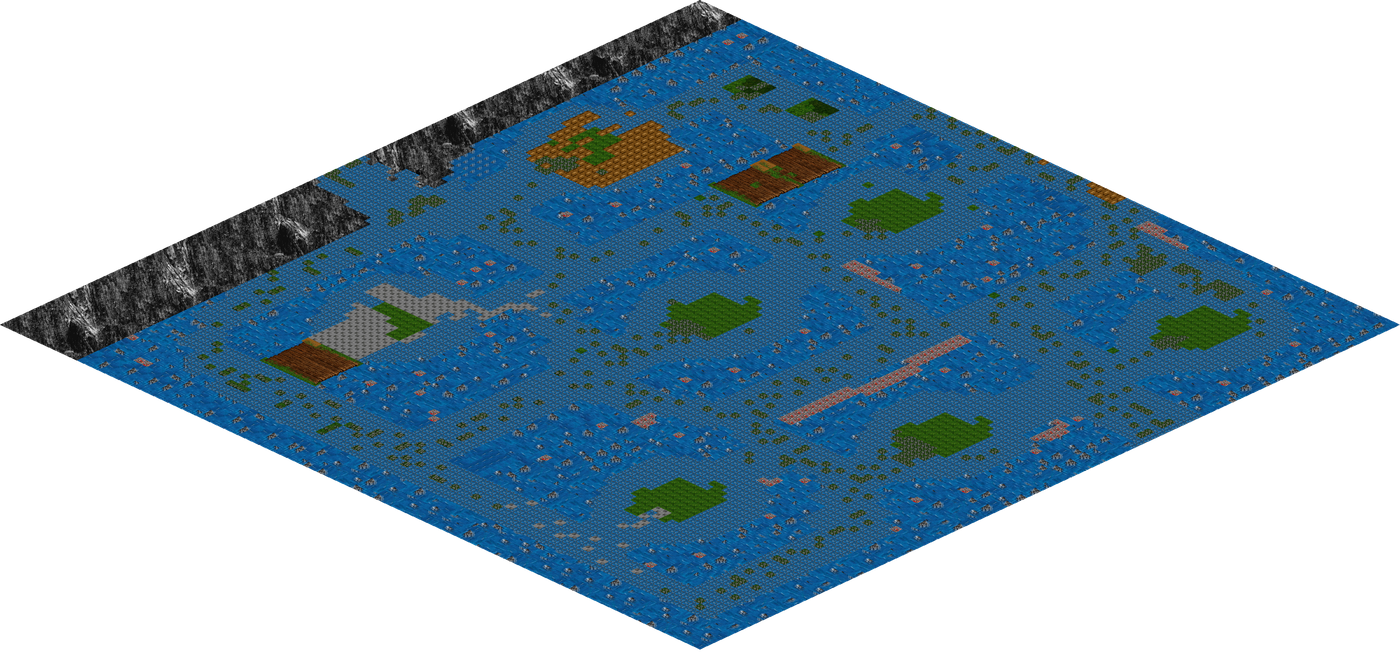
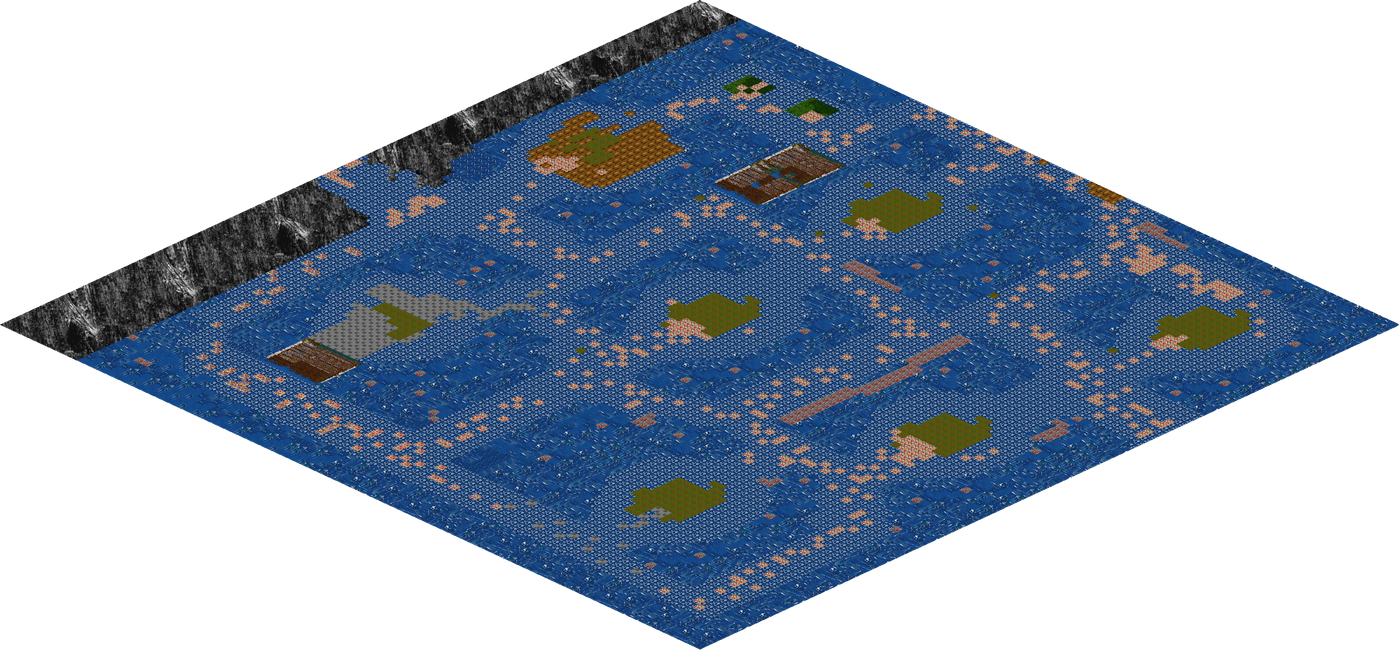
fix(dat-extract): 아카이브가 제 색표를 쓰게 한다 — 5.99 지도가 제 색으로 나온다
타일 색표를 mpt 로 시작하는 것만 읽고 있었다. 7.18 은 mpt0000.pal +
mpt0018.tbl 이지만 5.99 는 mps0000.pal + mpspal.tbl 이다. 그런데 5.99
아카이브에는 mpt 팔레트도 80개 들어 있어서, 잘못 고르는 것이 오류가 아니라
"틀린 색의 그림"으로 조용히 나왔다. 7.18 아카이브로 그려도 픽셀 단위로 같은
그림이 나온 것이 그 증거다 - 어느 쪽이든 같은 경로를 탔다.

어느 쪽인지는 표가 정한다. 타일마다 어느 팔레트를 쓸지 적어 둔 파일이 표이므로,
그 표와 같은 이름을 쓰는 팔레트가 짝이다. mpspal.tbl 이 있으면 mps 를 쓴다.

  전: 팔레트 80개 . 표 495개   (mpt0018.tbl 은 9바이트다)
  후: 팔레트 23개 . 표 254개   (mpspal.tbl 은 타일 2~19244 를 팔레트 0~24 에 맵)

밀레스마을이 마을처럼 보인다 - 풀밭, 흙길, 강과 다리, 건물이 놓인 자리.
마인마을이 파랬던 것은 색이 틀려서가 아니라 원래 물이 많은 갯마을이어서였다.

지도 그림을 네 곳으로 늘렸다: 마인마을, 밀레스마을, 아벨마을, 노비스마을.
밀레스는 워프 칸이 36개고 핀이 마을 한복판(상점 입구)과 가장자리(마을 밖
출구)에 모인다. 제자리다.

아직 바닥만 그린다. 건물.상점 같은 오브젝트는 맵 칸의 벽 두 칸과 seo.dat 안
맵별 .hea 파일(000666.hea = 마인마을, 638KB)에 들어 있고 그걸 읽는 코드가
저장소 어디에도 없다. 화면에 그렇게 적어 두었다.

Claude-Session: https://claude.ai/code/session_01TuV2TqB1suNF3CXSbDnC7b

Changed region(s): [[0.0614, 0.0305, 1.0, 1.0]]

diff --git a/docs/map-images-data.js b/docs/map-images-data.js
@@ -1,1 +1,1 @@
-window.MAP_IMAGES = {"마인마을": {"그림": "map-images/마인마을.png", "폭": 1400, "높이": 656, "칸": [100, 100], "배율": 4, "표시": [{"칸": [15, 33], "x": 574.0, "y": 159.2, "도착": ["마인시약상점"]}, {"칸": [43, 0], "x": 1001.0, "y": 143.0, "도착": ["죽음의마을입구5"]}, {"칸": [44, 0], "x": 1008.0, "y": 146.2, "도착": ["죽음의마을입구5"]}, {"칸": [45, 0], "x": 1015.0, "y": 149.5, "도착": ["죽음의마을입구5"]}, {"칸": [46, 0], "x": 1022.0, "y": 152.8, "도착": ["죽음의마을입구5"]}, {"칸": [46, 21], "x": 875.0, "y": 221.0, "도착": ["마인제조상점"]}, {"칸": [47, 0], "x": 1029.0, "y": 156.0, "도착": ["죽음의마을입구5"]}, {"칸": [48, 0], "x": 1036.0, "y": 159.2, "도착": ["죽음의마을입구5"]}, {"칸": [49, 50], "x": 693.0, "y": 325.0, "도착": ["마인은행"]}, {"칸": [84, 52], "x": 924.0, "y": 445.2, "도착": ["마인여관"]}, {"칸": [99, 29], "x": 1190.0, "y": 419.2, "도착": ["마이소시아"]}, {"칸": [99, 30], "x": 1183.0, "y": 422.5, "도착": ["마이소시아"]}, {"칸": [99, 31], "x": 1176.0, "y": 425.8, "도착": ["마이소시아"]}, {"칸": [99, 32], "x": 1169.0, "y": 429.0, "도착": ["마이소시아"]}, {"칸": [99, 33], "x": 1162.0, "y": 432.2, "도착": ["마이소시아"]}, {"칸": [99, 34], "x": 1155.0, "y": 435.5, "도착": ["마이소시아"]}, {"칸": [99, 35], "x": 1148.0, "y": 438.8, "도착": ["마이소시아"]}, {"칸": [99, 36], "x": 1141.0, "y": 442.0, "도착": ["마이소시아"]}, {"칸": [99, 37], "x": 1134.0, "y": 445.2, "도착": ["마이소시아"]}]}};
+window.MAP_IMAGES = {"마인마을": {"그림": "map-images/마인마을.png", "폭": 1400, "높이": 656, "칸": [100, 100], "배율": 4, "표시": [{"칸": [15, 33], "x": 574.0, "y": 159.2, "도착": ["마인시약상점"]}, {"칸": [43, 0], "x": 1001.0, "y": 143.0, "도착": ["죽음의마을입구5"]}, {"칸": [44, 0], "x": 1008.0, "y": 146.2, "도착": ["죽음의마을입구5"]}, {"칸": [45, 0], "x": 1015.0, "y": 149.5, "도착": ["죽음의마을입구5"]}, {"칸": [46, 0], "x": 1022.0, "y": 152.8, "도착": ["죽음의마을입구5"]}, {"칸": [46, 21], "x": 875.0, "y": 221.0, "도착": ["마인제조상점"]}, {"칸": [47, 0], "x": 1029.0, "y": 156.0, "도착": ["죽음의마을입구5"]}, {"칸": [48, 0], "x": 1036.0, "y": 159.2, "도착": ["죽음의마을입구5"]}, {"칸": [49, 50], "x": 693.0, "y": 325.0, "도착": ["마인은행"]}, {"칸": [84, 52], "x": 924.0, "y": 445.2, "도착": ["마인여관"]}, {"칸": [99, 29], "x": 1190.0, "y": 419.2, "도착": ["마이소시아"]}, {"칸": [99, 30], "x": 1183.0, "y": 422.5, "도착": ["마이소시아"]}, {"칸": [99, 31], "x": 1176.0, "y": 425.8, "도착": ["마이소시아"]}, {"칸": [99, 32], "x": 1169.0, "y": 429.0, "도착": ["마이소시아"]}, {"칸": [99, 33], "x": 1162.0, "y": 432.2, "도착": ["마이소시아"]}, {"칸": [99, 34], "x": 1155.0, "y": 435.5, "도착": ["마이소시아"]}, {"칸": [99, 35], "x": 1148.0, "y": 438.8, "도착": ["마이소시아"]}, {"칸": [99, 36], "x": 1141.0, "y": 442.0, "도착": ["마이소시아"]}, {"칸": [99, 37], "x": 1134.0, "y": 445.2, "도착": ["마이소시아"]}]}, "밀레스마을": {"그림": "map-images/밀레스마을.png", "폭": 1400, "높이": 656, "칸": [100, 100], "배율": 4, "표시": [{"칸": [12, 69], "x": 301.0, "y": 266.5, "도착": ["밀레스무기점"]}, {"칸": [13, 69], "x": 308.0, "y": 269.8, "도착": ["밀레스무기점"]}, {"칸": [18, 61], "x": 399.0, "y": 260.0, "도착": ["밀레스방어구점"]}, {"칸": [18, 62], "x": 392.0, "y": 263.2, "도착": ["밀레스방어구점"]}, {"칸": [18, 84], "x": 238.0, "y": 334.8, "도착": ["밀레스훈련소"]}, {"칸": [20, 22], "x": 686.0, "y": 139.8, "도착": ["밀레스특수스킬의집"]}, {"칸": [25, 15], "x": 770.0, "y": 133.2, "도착": ["밀레스시약상점"]}, {"칸": [26, 15], "x": 777.0, "y": 136.5, "도착": ["밀레스시약상점"]}, {"칸": [27, 43], "x": 588.0, "y": 230.8, "도착": ["밀레스여관"]}, {"칸": [28, 43], "x": 595.0, "y": 234.0, "도착": ["밀레스여관"]}, {"칸": [30, 82], "x": 336.0, "y": 367.2, "도착": ["밀레스우체국"]}, {"칸": [31, 82], "x": 343.0, "y": 370.5, "도착": ["밀레스우체국"]}, {"칸": [33, 37], "x": 672.0, "y": 230.8, "도착": ["밀레스여관"]}, {"칸": [33, 38], "x": 665.0, "y": 234.0, "도착": ["밀레스여관"]}, {"칸": [40, 75], "x": 455.0, "y": 377.0, "도착": ["밀레스교회"]}, {"칸": [42, 58], "x": 588.0, "y": 328.2, "도착": ["밀레스리콜상점"]}, {"칸": [43, 58], "x": 595.0, "y": 331.5, "도착": ["밀레스리콜상점"]}, {"칸": [52, 0], "x": 1064.0, "y": 172.2, "도착": ["동밀레스마을"]}, {"칸": [53, 0], "x": 1071.0, "y": 175.5, "도착": ["동밀레스마을"]}, {"칸": [54, 0], "x": 1078.0, "y": 178.8, "도착": ["동밀레스마을"]}, {"칸": [54, 70], "x": 588.0, "y": 406.2, "도착": ["밀레스은행"]}, {"칸": [55, 0], "x": 1085.0, "y": 182.0, "도착": ["동밀레스마을"]}, {"칸": [55, 70], "x": 595.0, "y": 409.5, "도착": ["밀레스은행"]}, {"칸": [56, 0], "x": 1092.0, "y": 185.2, "도착": ["동밀레스마을"]}, {"칸": [57, 0], "x": 1099.0, "y": 188.5, "도착": ["동밀레스마을"]}, {"칸": [62, 61], "x": 707.0, "y": 403.0, "도착": ["밀레스음식점"]}, {"칸": [63, 61], "x": 714.0, "y": 406.2, "도착": ["밀레스음식점"]}, {"칸": [70, 54], "x": 812.0, "y": 406.2, "도착": ["밀레스주점"]}, {"칸": [70, 55], "x": 805.0, "y": 409.5, "도착": ["밀레스주점"]}, {"칸": [92, 11], "x": 1267.0, "y": 338.0, "도착": ["밀레스신전"]}, {"칸": [92, 12], "x": 1260.0, "y": 341.2, "도착": ["밀레스신전"]}, {"칸": [92, 13], "x": 1253.0, "y": 344.5, "도착": ["밀레스신전"]}, {"칸": [99, 26], "x": 1211.0, "y": 409.5, "도착": ["마이소시아"]}, {"칸": [99, 27], "x": 1204.0, "y": 412.8, "도착": ["마이소시아"]}, {"칸": [99, 28], "x": 1197.0, "y": 416.0, "도착": ["마이소시아"]}, {"칸": [99, 29], "x": 1190.0, "y": 419.2, "도착": ["마이소시아"]}]}, "아벨마을": {"그림": "map-images/아벨마을.png", "폭": 1036, "높이": 487, "칸": [70, 78], "배율": 4, "표시": [{"칸": [0, 22], "x": 392.0, "y": 74.8, "도착": ["서아벨마을"]}, {"칸": [0, 23], "x": 385.0, "y": 78.0, "도착": ["서아벨마을"]}, {"칸": [0, 24], "x": 378.0, "y": 81.2, "도착": ["서아벨마을"]}, {"칸": [0, 25], "x": 371.0, "y": 84.5, "도착": ["서아벨마을"]}, {"칸": [0, 26], "x": 364.0, "y": 87.8, "도착": ["서아벨마을"]}, {"칸": [7, 51], "x": 238.0, "y": 191.8, "도착": ["아벨음식점"]}, {"칸": [12, 45], "x": 315.0, "y": 188.5, "도착": ["아벨주점"]}, {"칸": [14, 8], "x": 588.0, "y": 74.8, "도착": ["아벨은행"]}, {"칸": [14, 66], "x": 182.0, "y": 263.2, "도착": ["블팜함선입장"]}, {"칸": [15, 66], "x": 189.0, "y": 266.5, "도착": ["블팜함선입장"]}, {"칸": [24, 8], "x": 658.0, "y": 107.2, "도착": ["아벨특수스킬의집"]}, {"칸": [26, 46], "x": 406.0, "y": 237.2, "도착": ["아벨전투기술사범"]}, {"칸": [28, 0], "x": 742.0, "y": 94.2, "도착": ["동아벨마을"]}, {"칸": [29, 0], "x": 749.0, "y": 97.5, "도착": ["동아벨마을"]}, {"칸": [30, 0], "x": 756.0, "y": 100.8, "도착": ["동아벨마을"]}, {"칸": [44, 11], "x": 777.0, "y": 182.0, "도착": ["아벨퀘스트상점"]}, {"칸": [44, 50], "x": 504.0, "y": 308.8, "도착": ["아벨기술사범의집"]}, {"칸": [44, 67], "x": 385.0, "y": 364.0, "도착": ["아벨해안대기실"]}, {"칸": [45, 67], "x": 392.0, "y": 367.2, "도착": ["아벨해안대기실"]}, {"칸": [55, 18], "x": 805.0, "y": 240.5, "도착": ["아벨무기점"]}, {"칸": [59, 39], "x": 686.0, "y": 321.8, "도착": ["아벨여관"]}, {"칸": [60, 11], "x": 889.0, "y": 234.0, "도착": ["아벨방어구점"]}, {"칸": [60, 12], "x": 882.0, "y": 237.2, "도착": ["아벨방어구점"]}, {"칸": [69, 22], "x": 875.0, "y": 299.0, "도착": ["마이소시아"]}, {"칸": [69, 23], "x": 868.0, "y": 302.2, "도착": ["마이소시아"]}, {"칸": [69, 24], "x": 861.0, "y": 305.5, "도착": ["마이소시아"]}, {"칸": [69, 25], "x": 854.0, "y": 308.8, "도착": ["마이소시아"]}]}, "노비스마을": {"그림": "map-images/노비스마을.png", "폭": 980, "높이": 461, "칸": [70, 70], "배율": 4, "표시": [{"칸": [28, 26], "x": 504.0, "y": 178.8, "도착": ["노비스민가1"]}, {"칸": [29, 49], "x": 350.0, "y": 256.8, "도착": ["노비스마을식당"]}, {"칸": [29, 69], "x": 210.0, "y": 321.8, "도착": ["노비스평원B"]}, {"칸": [30, 69], "x": 217.0, "y": 325.0, "도착": ["노비스평원B"]}, {"칸": [31, 25], "x": 532.0, "y": 185.2, "도착": ["노비스민가1"]}, {"칸": [31, 69], "x": 224.0, "y": 328.2, "도착": ["노비스평원B"]}, {"칸": [32, 42], "x": 420.0, "y": 243.8, "도착": ["노비스주점"]}, {"칸": [32, 69], "x": 231.0, "y": 331.5, "도착": ["노비스평원B"]}, {"칸": [33, 69], "x": 238.0, "y": 334.8, "도착": ["노비스평원B"]}, {"칸": [44, 25], "x": 623.0, "y": 227.5, "도착": ["노비스잡화상점"]}, {"칸": [48, 51], "x": 469.0, "y": 325.0, "도착": ["노비스민가2"]}, {"칸": [50, 25], "x": 665.0, "y": 247.0, "도착": ["노비스무기방어구상점"]}, {"칸": [63, 49], "x": 588.0, "y": 367.2, "도착": ["마이소시아"]}, {"칸": [69, 26], "x": 791.0, "y": 312.0, "도착": ["노비스평원A"]}, {"칸": [69, 27], "x": 784.0, "y": 315.2, "도착": ["노비스평원A"]}, {"칸": [69, 28], "x": 777.0, "y": 318.5, "도착": ["노비스평원A"]}, {"칸": [69, 29], "x": 770.0, "y": 321.8, "도착": ["노비스평원A"]}, {"칸": [69, 30], "x": 763.0, "y": 325.0, "도착": ["노비스평원A"]}]}};

diff --git a/docs/world-map.js b/docs/world-map.js
@@ -101,7 +101,9 @@
       '<div class="map-canvas"><img src="' + m["그림"] + '" alt="' + hit + ' 지형" loading="lazy">' +
       pins + "</div>" +
       '<p class="map-hint">점이 워프가 있는 칸이다. 올려 두면 어디로 가는지 나온다. ' +
-      "<strong>색은 아직 틀렸다</strong> — dat-extract 가 5.99 의 색표(mpspal.tbl)를 안 읽는다. 지형 모양은 맞다.</p>" +
+      "<strong>바닥만 그린 그림이다</strong> — 건물·상점 같은 오브젝트는 맵의 벽 두 칸과 " +
+      "seo.dat 안 맵별 <code>000666.hea</code> 파일에 들어 있고, 그걸 읽는 코드가 아직 없다. " +
+      "흰 사각형이 건물이 놓인 자리다.</p>" +
       "</figure>";
   }
 

diff --git a/tools/dat-extract/Program.cs b/tools/dat-extract/Program.cs
@@ -996,18 +996,36 @@ internal static class Program
                 offset = plain.Data.Length / (TileWidth * TileHeight);
             }
 
+            string prefix = TilePalettePrefix(entries);
+
             return new TileSource
             {
                 Tiles = new TileCollection(tileSet).Load(),
-                Palettes = Palette.FromArchive(Matching(entries, ".pal")),
-                Tables = PaletteTable.FromArchive(Matching(entries, ".tbl"), "mpt", _ => { }).Result,
+                Palettes = Palette.FromArchive(Matching(entries, ".pal", prefix)),
+                Tables = PaletteTable.FromArchive(Matching(entries, ".tbl", prefix), prefix, _ => { }).Result,
                 PaletteOffset = offset
             };
         }
 
-        private static IEnumerable<ArchivedItem> Matching(List<ArchivedItem> entries, string extension) =>
+        /// <summary>
+        /// Which family of tile palettes this archive keeps. 7.18 names them mpt0000.pal with mpt0018.tbl
+        /// beside them; 5.99 names them mps0000.pal with mpspal.tbl — and ships a handful of mpt palettes
+        /// too, so picking the wrong family is not an error, it is a picture in the wrong colours. The
+        /// table is what decides: it is the file that says which palette each tile takes, so the palettes
+        /// it means are the ones named like it.
+        /// </summary>
+        internal static string TilePalettePrefix(List<ArchivedItem> entries)
+        {
+            bool Has(string name) =>
+                entries.Any(e => e.Name.Equals(name, StringComparison.OrdinalIgnoreCase));
+
+            return Has("mpspal.tbl") ? "mps" : "mpt";
+        }
+
+        private static IEnumerable<ArchivedItem> Matching(
+            List<ArchivedItem> entries, string extension, string prefix) =>
             entries.Where(e => e.Name.EndsWith(extension, StringComparison.OrdinalIgnoreCase)
-                            && e.Name.StartsWith("mpt", StringComparison.OrdinalIgnoreCase))
+                            && e.Name.StartsWith(prefix, StringComparison.OrdinalIgnoreCase))
                    .OrderBy(e => e.Name, StringComparer.OrdinalIgnoreCase);
 
         public void Draw(Image<Rgba32> canvas, int index, int originX, int originY)
